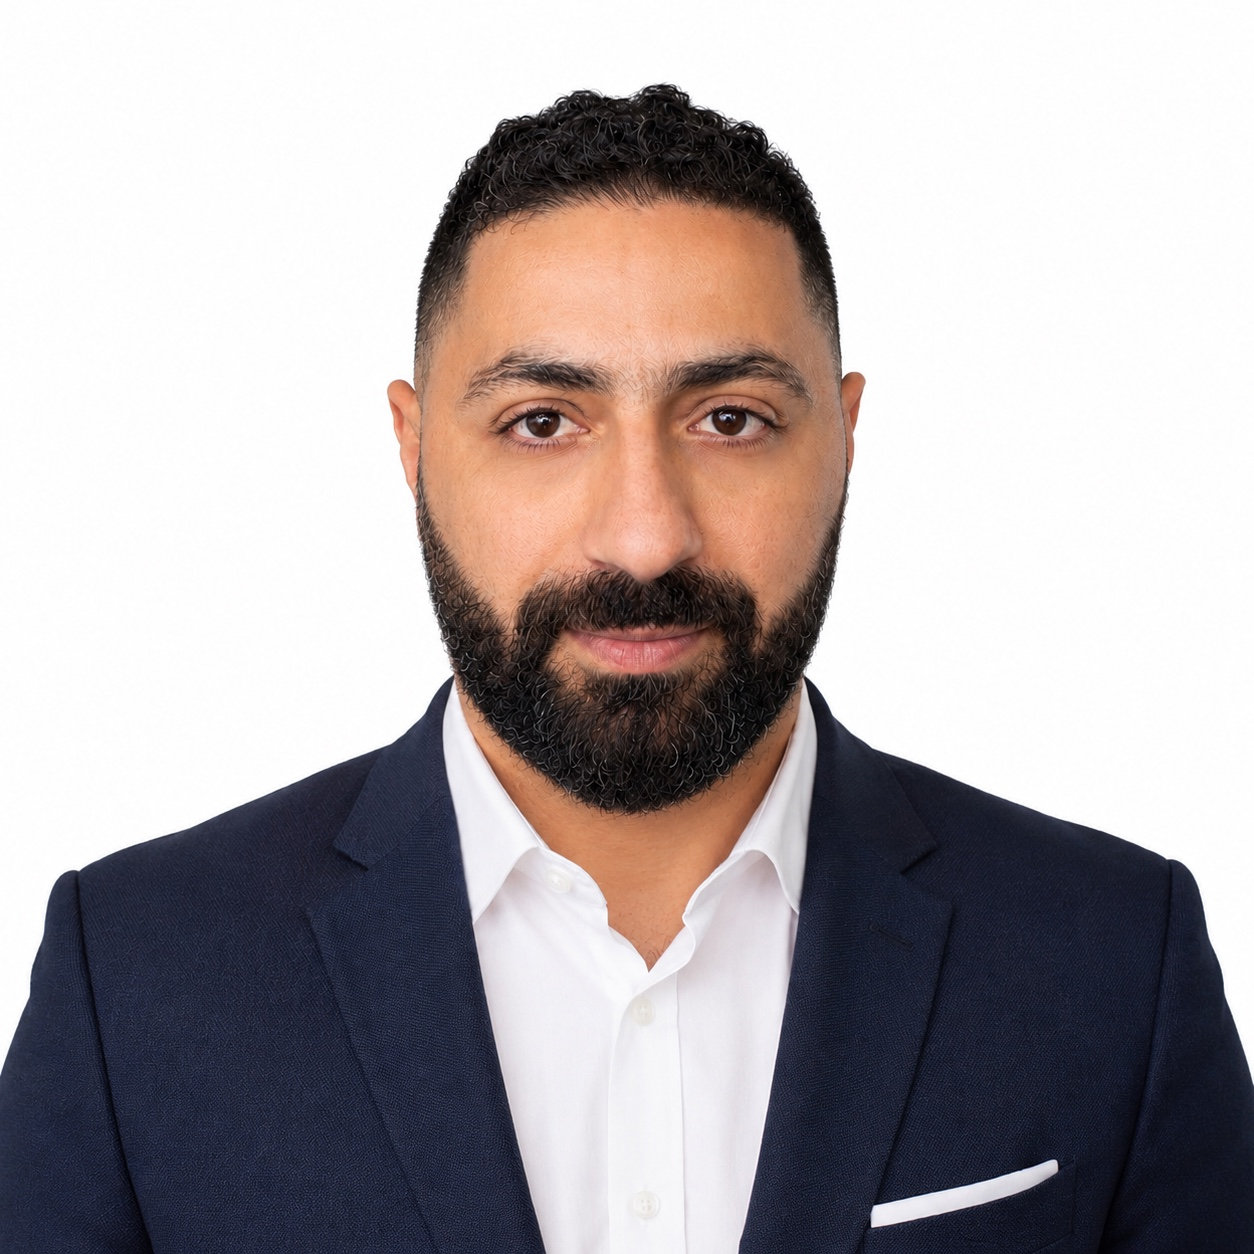
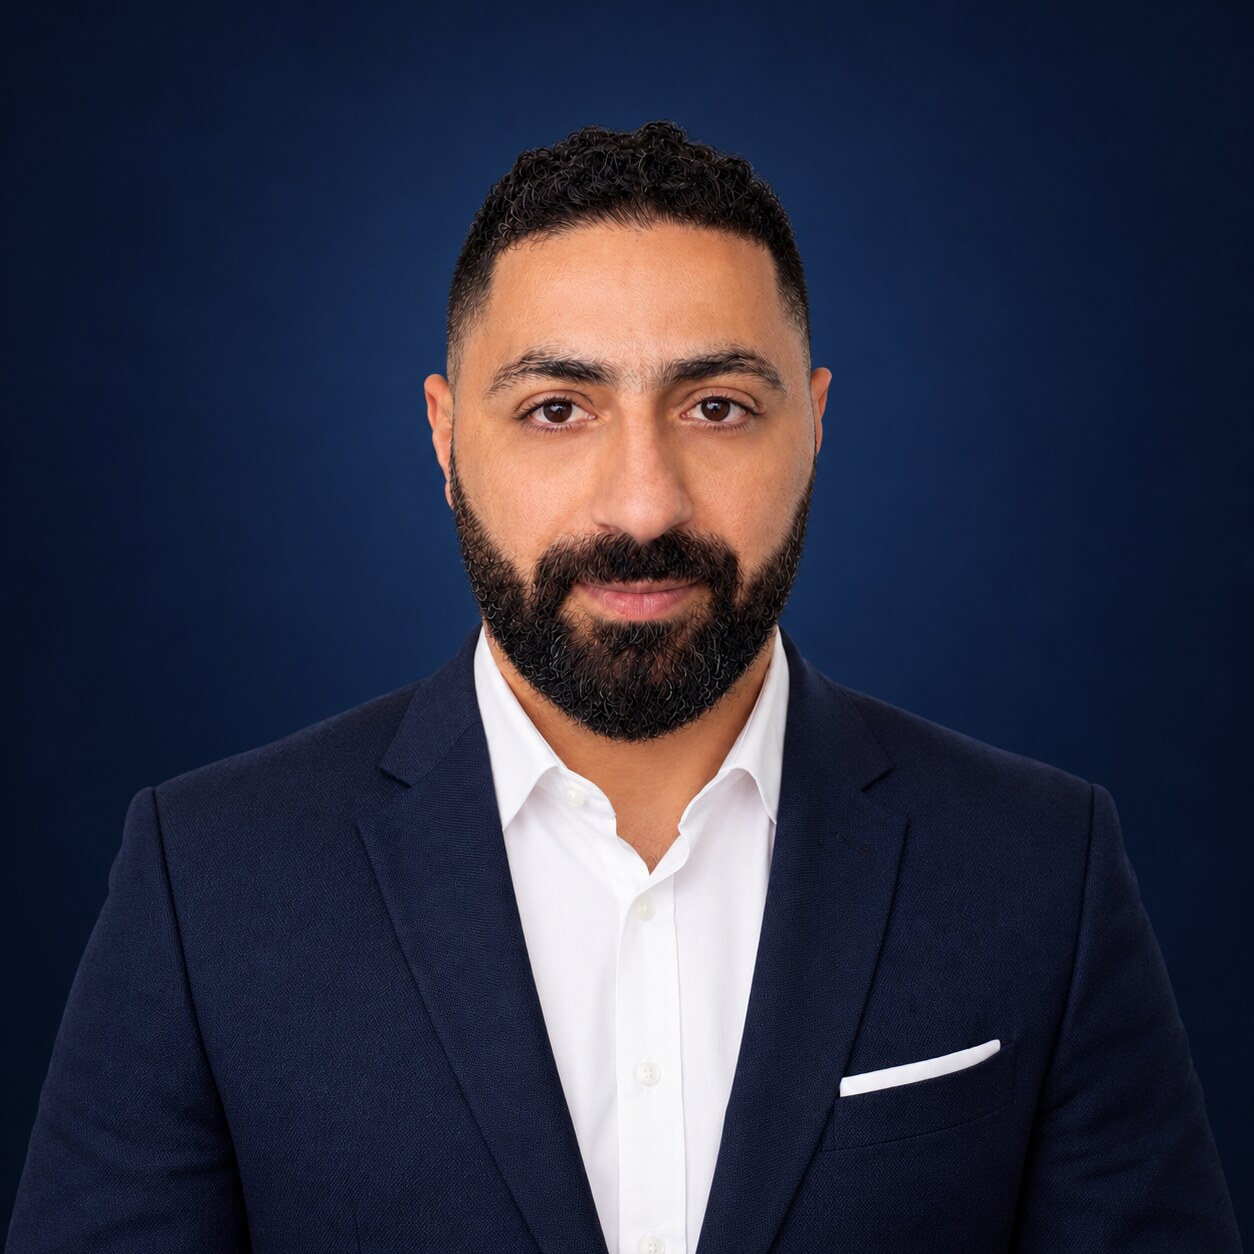
Redesign portfolio and feature JamEMR

diff --git a/students/khaled-jaber/index.html b/students/khaled-jaber/index.html
@@ -9,9 +9,18 @@
 
 <link rel="preconnect" href="https://fonts.googleapis.com">
 <link rel="preconnect" href="https://fonts.gstatic.com" crossorigin>
-<link href="https://fonts.googleapis.com/css2?family=Inter:wght@400;600;700;800&display=swap" rel="stylesheet">
+<link href="https://fonts.googleapis.com/css2?family=Inter:wght@400;600;700;800&family=Manrope:wght@500;600;700&display=swap" rel="stylesheet">
 <link rel="stylesheet" href="../../assets/style.css">
-</head>
+
+<style>
+body{background:#f5f7fb} .nav{box-shadow:0 4px 20px #142d5b12}.wrap{padding-top:42px}.cols{grid-template-columns:280px minmax(0,1fr);gap:38px}aside{background:white;padding:18px;border:1px solid #e4e8ef;border-radius:22px;box-shadow:0 12px 35px #10264808}.photo-card{padding:0;overflow:hidden;border:0;background:#edf4ff}.photo-card img{aspect-ratio:4/5;border-radius:14px;object-position:center 25%}.rail-link{padding:12px;font-size:14px;background:#f8faff}.rail-link:first-of-type{background:var(--blue);color:white;border-color:var(--blue)}.profile-note{text-align:center;font-size:12px;letter-spacing:1.3px;font-weight:700;color:#596b86;margin:18px 0 4px}.hero{background:white;border:1px solid #e4e8ef;border-radius:22px;padding:32px;margin-bottom:32px;position:relative;overflow:hidden}.hero:before{content:"";position:absolute;right:-70px;top:-90px;width:230px;height:230px;border:40px solid #edf4ff;border-radius:50%;pointer-events:none}.eyebrow{font-size:12px;font-weight:800;letter-spacing:2px;color:var(--blue);margin:0 0 16px;position:relative}h1{font-size:48px;position:relative}.quote{font-style:normal;font-size:17px;margin-bottom:24px;position:relative}.tags{display:flex;flex-wrap:wrap;gap:8px}.tags span{font-size:12px;font-weight:600;background:#edf4ff;color:#285280;padding:6px 11px;border-radius:30px}.section-kicker{font-size:11px;letter-spacing:2px;color:#697b96;font-weight:800;margin:0 0 7px}h2{font-size:27px;margin-top:38px}.card{padding:0;border-radius:18px;overflow:hidden;box-shadow:0 8px 25px #10264808;transition:transform .2s,box-shadow .2s}.card:hover{transform:translateY(-4px);box-shadow:0 14px 30px #10264813}.card img{margin:0;border-radius:0;aspect-ratio:8/5}.card-content{padding:22px}.card h3{font-size:20px;line-height:1.3;margin:7px 0 14px}.card p{font-size:14px;line-height:1.7}.project-label{font-size:10px;font-weight:800;letter-spacing:1.3px;color:var(--blue)}.split{gap:20px;grid-template-columns:1fr 1fr}.split>div{background:white;padding:24px;border:1px solid #e4e8ef;border-radius:18px}.split h3{font-size:19px;margin-bottom:14px}.chain li{font-size:14px;padding:14px 0}.chain .where{font-size:12px;margin-top:5px}.chain li:first-child{border-left:3px solid var(--blue);padding-left:13px}.where{line-height:1.6}footer{margin-top:32px;padding-top:20px;font-size:12px}a:focus-visible{outline:3px solid #e23b3b;outline-offset:4px}h2{scroll-margin-top:120px}@media(max-width:860px){.cols{grid-template-columns:1fr}aside{max-width:520px;width:100%;margin:auto}.photo-card img{aspect-ratio:1/1}.hero{padding:26px}h1{font-size:40px}}@media(max-width:600px){.wrap{padding:24px 16px 50px}.nav{gap:8px;padding:10px 12px}.nav .badge{font-size:15px;padding:10px 13px}.nav a.pill{font-size:11px;padding:9px}.cards,.split{grid-template-columns:1fr}.hero{padding:22px}h1{font-size:36px}.quote{font-size:16px}.nav .spacer{display:none}}@media(prefers-reduced-motion:reduce){.card{transition:none}.card:hover{transform:none}}
+</style>
+
+<style>
+:root{--blue:#64d8ec;--blue-dark:#40bdd4;--red:#64d8ec;--ink:#edf3fc;--ink-soft:#a7b7ce;--line:#26364e;--bg:#0a1120;--bg-soft:#142138}
+body{background:radial-gradient(ellipse at 85% 0%,#162d48 0,transparent 48%),#0a1120;color:var(--ink)}.nav{background:#0c1525ed;backdrop-filter:blur(16px);border-bottom:1px solid #23334b;box-shadow:none;gap:18px;padding:16px max(24px,calc((100vw - 1152px)/2))}.nav .badge{background:transparent;border:1px solid #36516b;color:#eaf4ff;font-size:16px;padding:9px 14px;border-radius:8px}.nav a.pill{background:transparent;color:#bdcbe0;padding:10px 4px}.nav a.pill:hover{background:transparent;color:#64d8ec}.nav a.pill:last-child{border:1px solid #344962;padding:9px 14px;border-radius:8px}.wrap{padding-top:54px}.cols{grid-template-columns:268px minmax(0,1fr);gap:42px}aside{padding:0;border:0;background:transparent;box-shadow:none}.photo-card{padding:7px;background:#19273b;border:1px solid #34465c;border-radius:20px;box-shadow:0 18px 60px #0004}.photo-card img{aspect-ratio:4/5;object-position:center 25%;border-radius:14px}.profile-note{color:#8da5c1;font-size:10px;letter-spacing:2px;margin:22px 0 8px}.rail-link{background:#111e31;border:1px solid #293c53;color:#c7d9ed;text-align:left;padding:13px 16px;border-radius:10px;margin-top:10px}.rail-link:after{content:'↗';float:right;color:#64d8ec}.rail-link:first-of-type{background:#64d8ec;border-color:#64d8ec;color:#081522}.rail-link:first-of-type:after{content:'↓';color:#081522}.rail-link:hover{background:#1b3046;border-color:#56758e;color:white}.rail-link:first-of-type:hover{background:#89e5f2;color:#081522}.hero{padding:6px 0 36px;background:transparent;border:0;border-radius:0;overflow:visible;margin-bottom:28px;border-bottom:1px solid #26364e}.hero:before{display:none}.eyebrow{color:#64d8ec;font-size:11px;letter-spacing:2.5px;margin:0 0 22px;display:flex;align-items:center;gap:10px}.eyebrow:before{content:'';width:7px;height:7px;background:#64d8ec;border-radius:50%;box-shadow:0 0 18px #64d8ec8a}h1{font-size:clamp(44px,5vw,66px);font-weight:800;letter-spacing:-3px;margin-bottom:22px}.quote{color:#b6c6da;border:0;padding:0;font-size:18px;line-height:1.7;max-width:570px;margin-bottom:26px}.tags{gap:8px}.tags span{background:#14273a;color:#9ad7e3;border:1px solid #254254;font-size:11px;padding:5px 11px}.section-kicker{color:#718baa;font-size:10px;letter-spacing:2.3px}h2{font-size:27px;letter-spacing:-.8px;margin-bottom:22px}.cards{gap:20px}.card{background:#101c2e;border:1px solid #293c54;border-radius:16px;box-shadow:0 14px 30px #0002}.card:hover{border-color:#5491a3;box-shadow:0 20px 40px #0004}.card img{background:#13263a;aspect-ratio:8/5}.card-content{padding:23px}.project-label{color:#64d8ec;font-size:9px;letter-spacing:1.6px}.card h3{font-size:20px;color:#f1f5fd;margin:10px 0 12px;letter-spacing:-.4px}.card p{color:#a7bad2;line-height:1.75;font-size:13px}.split>div{background:#101c2e;border-color:#293c54;padding:24px;border-radius:16px}.split h3{color:#e8f2ff}.chain li{border-color:#23344d;color:#d6e2f3;font-size:13px}.chain .where{color:#8da4c0;font-size:12px}.chain li:first-child{border-left-color:#64d8ec}footer{color:#7f96b3;border-color:#26364e}a:focus-visible{outline-color:#64d8ec}@media(max-width:860px){.wrap{padding-top:32px}.cols{grid-template-columns:220px minmax(0,1fr);gap:28px}.photo-card img{aspect-ratio:4/5}h1{font-size:44px;letter-spacing:-2px}.cards,.split{grid-template-columns:1fr}.quote{font-size:16px}.nav{padding:12px 20px;gap:13px}}@media(max-width:620px){.cols{display:flex;flex-direction:column;gap:32px}aside{max-width:none;display:grid;grid-template-columns:repeat(2,minmax(0,1fr));gap:8px;width:100%}.photo-card{grid-column:1/-1;max-width:230px;width:100%;margin:0 auto}.photo-card img{aspect-ratio:1/1}.profile-note{grid-column:1/-1;margin:8px 0}.rail-link{margin:0;padding:11px;font-size:12px}.rail-link:first-of-type{grid-column:1/-1;text-align:center}.rail-link:first-of-type:after{float:none;margin-left:12px}main{width:100%}.hero{padding:0 0 28px;margin-bottom:26px}h1{font-size:44px}.nav{gap:12px;padding:12px 16px}.nav .badge{font-size:13px;padding:8px 10px}.nav a.pill{font-size:11px}.nav a.pill:last-child{display:none}.nav a.pill:nth-child(4){margin-left:auto}.wrap{padding:28px 20px 50px}.eyebrow{font-size:9px;letter-spacing:1.8px;margin-bottom:18px}}
+</style>
+<style>.featured-project{grid-template-columns:1fr}.featured-project .card img{aspect-ratio:16/8}.featured-project .card-content{padding:26px 28px}.featured-project .card h3{font-size:29px}.featured-project .card p{font-size:15px;max-width:65ch}.project-capabilities{display:flex;flex-wrap:wrap;gap:8px;margin-top:22px}.project-capabilities span{border:1px solid #304761;border-radius:6px;padding:6px 10px;font-size:11px;color:#9dd7e0}@media(max-width:620px){.featured-project .card img{aspect-ratio:4/3;object-fit:cover}.featured-project .card-content{padding:22px}}</style><style>h1{font-family:Manrope,Inter,sans-serif;font-size:42px;font-weight:600;letter-spacing:-1.4px;line-height:1.2}.nav .badge{font-family:Manrope,Inter,sans-serif;font-weight:600;font-size:14px}.project-cta{display:inline-flex;align-items:center;gap:14px;margin-top:24px;padding:11px 17px;border:1px solid #5cbaca;border-radius:8px;color:#90e2ec;font-size:13px;font-weight:600}.project-cta:hover{background:#173944;text-decoration:none;color:#c8f7fa}.project-cta span{font-size:17px}@media(max-width:620px){h1{font-size:34px;letter-spacing:-1px}.nav .badge{font-size:13px}}</style></head>
 <body>
 
 <nav class="nav">
@@ -34,6 +43,7 @@
         <img src="photo.jpg" alt="Photograph of Khaled Jaber">
       </div>
 
+      <p class="profile-note">HEALTHCARE · BUSINESS · AI</p>
       <a class="rail-link" href="resume.pdf" download="Khaled-Jaber-CV.pdf">Download CV (PDF)</a>
 
       
@@ -46,25 +56,22 @@
     
     <main>
       
-      <h1>Khaled Jaber</h1>
+      <section class="hero"><p class="eyebrow">HEALTHCARE EXPERIENCE. AI CURIOSITY.</p><h1>Khaled Jaber</h1>
 
       
-      <p class="quote">I bring experience in healthcare and business analysis to the AI systems I build. I care about making complex workflows clearer for the people who use them.</p>
+      <p class="quote">I bring experience in healthcare and business analysis to the AI systems I build. I care about making complex workflows clearer for the people who use them.</p><div class="tags"><span>Healthcare</span><span>Business analysis</span><span>MS in Artificial Intelligence</span></div></section>
+<p class="section-kicker">SELECTED WORK</p><h2 id="projects">Current Project</h2>
+      <div class="cards featured-project">
+<article class="card">
+<img src="project-jamemr.svg" alt="Concept illustration of JamEMR: clinical context, ambient notes, and physician review">
+<div class="card-content"><span class="project-label">CURRENT PROJECT · HEALTHCARE AI</span>
+<h3>JamEMR</h3>
+<p>JamEMR is an AI-powered electronic medical record system for neurology, with an ambient scribe that drafts visit notes for physician review. I co-create the product with a neurologist, defining requirements and clinical workflows and supporting AI-assisted development and testing. The system has completed synthetic-data testing, and we are preparing a pilot in a neurology practice.</p>
+<a class="project-cta" href="https://jamemr.com" target="_blank" rel="noopener noreferrer">Visit JamEMR <span aria-hidden="true">↗</span></a>
+<div class="project-capabilities"><span>Clinical context</span><span>Ambient scribe</span><span>Physician review</span></div>
+</div></article></div>
 
-      <h2 id="projects">Current Projects</h2>
-      <div class="cards">
-        <article class="card">
-          <h3>Specialty Pharmacy CRM Migration</h3>
-          <p>This project replaced the specialty pharmacy CRM at Publix. I managed more than 700 requirements and designed a weighted vendor evaluation matrix that supported the selection of Asembia. The replacement was delivered in six months against an original twelve-month plan.</p>
-        </article>
-        <article class="card">
-          <h3>eSIM Activation at TracFone</h3>
-          <p>This project supported eSIM activation for customers bringing their own phones and customers buying new devices. I managed requirements and backlog items and supported user acceptance testing and defect resolution. My work helped the team test both activation paths and resolve reported defects.</p>
-        </article>
-      </div>
-
-
-      <h2 id="education">Education &amp; Experience</h2>
+<h2 id="education">Education &amp; Experience</h2>
       <div class="split">
         <div>
           <h3>Education</h3>
@@ -89,7 +96,7 @@
       </div>
 
       <footer>
-        MS in Artificial Intelligence · Atlantis University
+        Khaled Jaber · MS in Artificial Intelligence · Atlantis University
       </footer>
     </main>
 
